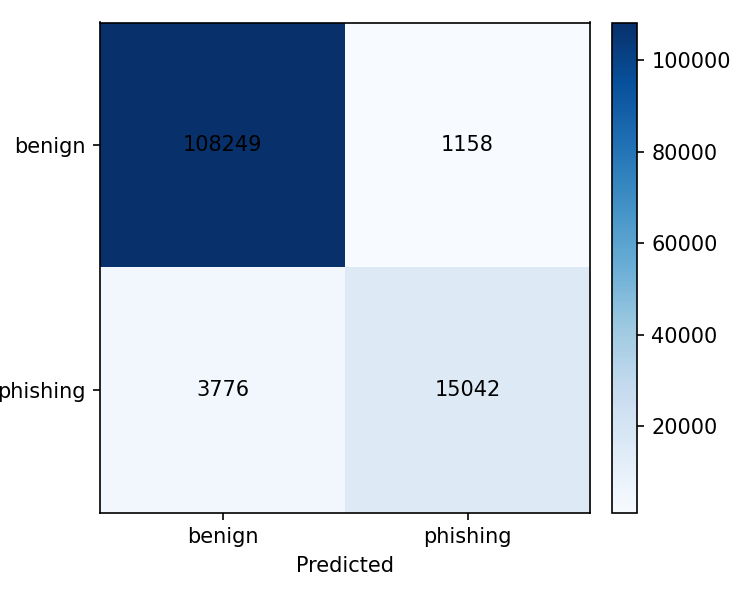
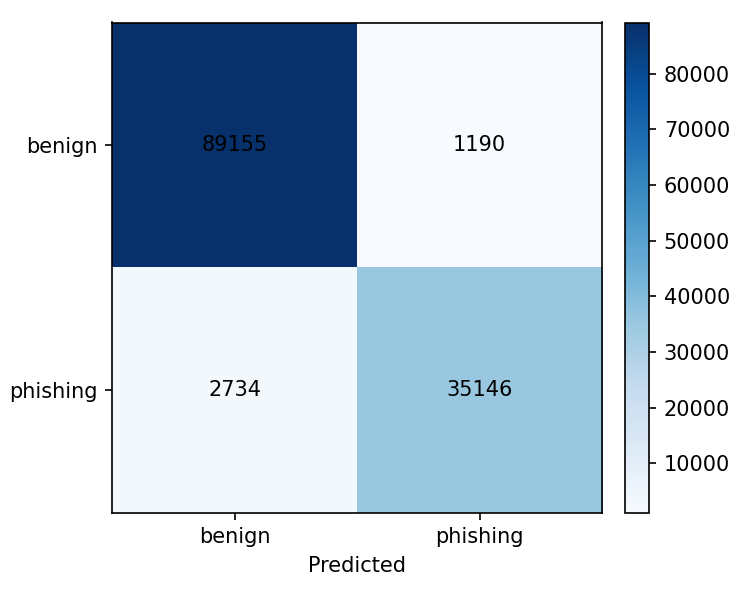
Final tweaks to count defacement and malware as malicious

diff --git a/src/utils.py b/src/utils.py
@@ -34,6 +34,7 @@ POSITIVE_LABELS = {
     "malicious",
     "spam",
     "fraud",
+    "defacement",
     "1",
     "true",
     "yes",
